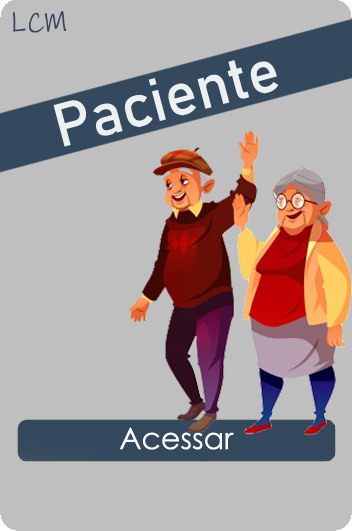
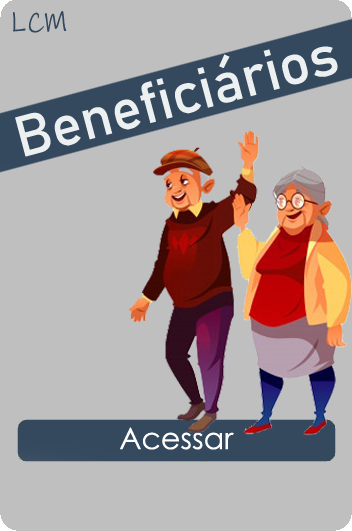
troca de imagens nos cards

Changed region(s): [[0.0312, 0.0603, 0.9688, 0.3013]]

diff --git a/tcc-web/src/app/modulos/login/cadastro/cadastro-paciente/cadastro-paciente.component.html b/tcc-web/src/app/modulos/login/cadastro/cadastro-paciente/cadastro-paciente.component.html
@@ -14,14 +14,16 @@
 <div id="main">
   <div class="inner">
     <!-- <router-outlet></router-outlet> -->
-<a href="/board">voltar</a>
+    <a href="/board">voltar</a>
+    <a style="float:right" href="/login" >Logout </a>
     <!-- listagem -->
     <div *ngIf="!this.novoPaciente" style="text-align: center">
-    <div class="columns" style="display: inline-flex">
+      <div class="columns" style="display: inline-flex">
         <!-- Column 1 (horizontal, vertical, horizontal, vertical) -->
         <div class="image fit">
           <!-- <a href="cadastro_paciente.html"><img src="images/Intern_Banner_Template_Cadastrar_Paciente.png" alt="" /></a> -->
-          <a *ngIf="this.perfilPaciente != 4" (click)="criarNovoPaciente()" class="clicavel"><img src="../../../../../assets/images/cadastro/Intern_Banner_Template_Cadastrar_Paciente.png" alt="" /></a>
+          <a *ngIf="this.perfilPaciente != 4" (click)="criarNovoPaciente()" class="clicavel"><img
+              src="../../../../../assets/images/cadastro/Intern_Banner_Template_Cadastrar_Paciente.png" alt="" /></a>
         </div>
         <!-- Column 2 (vertical, horizontal, vertical, horizontal) -->
         <!-- <div class="image fit">
@@ -29,9 +31,9 @@
           <a class="clicavel"><img src="../../../../../assets/images/cadastro/Intern_Banner_Template_Editar_Paciente.png" alt="" /></a>
         </div> -->
       </div>
-    
+
       <h2>Beneficiários ja cadastrados</h2>
-    
+
       <table>
         <tr>
           <th>Nome</th>
@@ -51,155 +53,174 @@
           <td>{{paciente.cidade}}</td>
           <!-- <td>{{paciente.condicoesClinicas}}</td> -->
           <td>{{paciente.responsavel}}</td>
-          <button class="editarPaciente" *ngIf="this.perfilPaciente != 4" (click)="editarPaciente(paciente)">Visualizar</button>
+          <button class="editarPaciente" *ngIf="this.perfilPaciente != 4"
+            (click)="editarPaciente(paciente)">Visualizar</button>
         </tr>
       </table>
     </div>
 
     <!-- novo paciente -->
-    <div *ngIf="this.novoPaciente" >
-        <div class="image fit">
-            <img src="images/banner_cadastro.jpg" alt="" />
+    <div *ngIf="this.novoPaciente">
+      <div class="image fit">
+        <img src="images/banner_cadastro.jpg" alt="" />
+      </div>
+      <div class="content">
+        <header>
+          <h2>Cadastro de Beneficiário</h2>
+        </header>
+        <div id="welcome">
+          <div class="title">
+            <span class="byline"><b>Preencha todos os campos obrigatórios.</b></span>
           </div>
-          <div class="content">
-            <header>
-              <h2>Cadastro de Beneficiário</h2>
-            </header>
-            <div id="welcome">
-              <div class="title">
-                <span class="byline"><b>Preencha todos os campos obrigatórios.</b></span>
-              </div>
-              <br>            
-              <div class="row">
-                  <div class="col-lg-12">
-                    <section class="panel">
-                    <header class="panel-heading">
-                    </header>
-                    <div class="panel-body">
-                      <div class="form">
-                        <form class="form-validate form-horizontal " id="register_form" method="get" action="">
-                          <div class="form-group ">
-                            <label for="fullname" class="control-label col-lg-2">Nome Completo<span class="required">*</span></label>
-                            <div class="col-lg-10">
-                              <input [(ngModel)]="this.paciente.nome" class=" form-control" id="fullname" name="fullname" type="text" />
-                            </div>
-                          </div>
-                        <br>
-                        <div class="form-group ">
-                            <label for="nascimento" class="control-label col-lg-2">Data de Nascimento <span class="required">*</span></label>
-                            <div class="col-lg-10">
-                              <input [(ngModel)]="this.paciente.datanascimento" class="form-control " id="nascimento" name="nascimento" type="date" />
-                            </div>
-                          </div>
-                        <br>
-                        <div class="form-group ">
-                            <label for="sexo" class="control-label col-lg-2">Sexo <span class="required">*</span></label>
-                            <select (change)="setSexo($event)" id=sexo>
-                                <!-- [(ngModel)]="prestador.sexo" -->
-                                <option [value]="3">Outro</option>
-                                <option [value]="1">Masculino</option>
-                                <option [value]="2">Feminino</option>
-                              </select>
-                          </div>
-                        <br>
-                        <!-- <div class="form-group ">
+          <br>
+          <div class="row">
+            <div class="col-lg-12">
+              <section class="panel">
+                <header class="panel-heading">
+                </header>
+                <div class="panel-body">
+                  <div class="form">
+                    <form class="form-validate form-horizontal " id="register_form" method="get" action="">
+                      <div class="form-group ">
+                        <label for="fullname" class="control-label col-lg-2">Nome Completo<span
+                            class="required">*</span></label>
+                        <div class="col-lg-10">
+                          <input [(ngModel)]="this.paciente.nome" class=" form-control" id="fullname" name="fullname"
+                            type="text" />
+                        </div>
+                      </div>
+                      <br>
+                      <div class="form-group ">
+                        <label for="nascimento" class="control-label col-lg-2">Data de Nascimento <span
+                            class="required">*</span></label>
+                        <div class="col-lg-10">
+                          <input [(ngModel)]="this.paciente.datanascimento" class="form-control " id="nascimento"
+                            name="nascimento" type="date" />
+                        </div>
+                      </div>
+                      <br>
+                      <div class="form-group ">
+                        <label for="sexo" class="control-label col-lg-2">Sexo <span class="required">*</span></label>
+                        <select (change)="setSexo($event)" id=sexo>
+                          <!-- [(ngModel)]="prestador.sexo" -->
+                          <option [value]="3">Outro</option>
+                          <option [value]="1">Masculino</option>
+                          <option [value]="2">Feminino</option>
+                        </select>
+                      </div>
+                      <br>
+                      <!-- <div class="form-group ">
                             <label for="email" class="control-label col-lg-2">email <span class="required">*</span></label>
                             <div class="col-lg-10">
                               <input [(ngModel)]="this.paciente.email" class="form-control " id="email" name="email" type="email" />
                             </div>
                           </div> -->
-                        <br>
-                        <div class="form-group ">
-                            <label for="telefone" class="control-label col-lg-2">Telefone <span class="required">*</span></label>
-                            <div class="col-lg-10">
-                              <input [(ngModel)]="this.paciente.telefone" mask="(00) 000000000" class="form-control " id="telefone" name="telefone" type="text" />
-                            </div>
-                          </div>
-                        <br>                        
-                    <div class="form-group ">
-                      <label for="UF" class="control-label col-lg-2">Estado <span class="required">*</span></label>
-                      <select (change)="setEstado($event)" >
-                        <option *ngFor="let estado of estados" [value]="estado.key">{{estado.value}}</option>
-                      </select>
-                    </div>
-                    <br>
-                    <div class="form-group ">
-                      <label for="cidade" class="control-label col-lg-2">Cidade <span class="required">*</span></label>
-                      <select (change)="setCidade($event)" >
-                        <option *ngFor="let cidade of cidades" [value]="cidade.key">{{cidade.value}}</option>
-                      </select>
-                    </div>
-                        <br>
-                        <div class="form-group ">
-                            <label for="rua" class="control-label col-lg-2">Rua <span class="required">*</span></label>
-                            <div class="col-lg-10">
-                              <input [(ngModel)]="this.paciente.rua" class="form-control " id="rua" name="rua" type="text" />
-                            </div>
-                          </div>
-                        <br>
-                        <div class="form-group ">
-                            <label for="numero" class="control-label col-lg-2">Número <span class="required">*</span></label>
-                            <div class="col-lg-10">
-                              <input [(ngModel)]="this.paciente.numero" mask="000000" class="form-control " id="numero" name="numero" type="text" />
-                            </div>
-                          </div>
-                        <br>
-                        <!-- <div class="form-group ">
+                      <br>
+                      <div class="form-group ">
+                        <label for="telefone" class="control-label col-lg-2">Telefone <span
+                            class="required">*</span></label>
+                        <div class="col-lg-10">
+                          <input [(ngModel)]="this.paciente.telefone" mask="(00) 000000000" class="form-control "
+                            id="telefone" name="telefone" type="text" />
+                        </div>
+                      </div>
+                      <br>
+                      <div class="form-group ">
+                        <label for="UF" class="control-label col-lg-2">Estado <span class="required">*</span></label>
+                        <select (change)="setEstado($event)">
+                          <option *ngFor="let estado of estados" [value]="estado.key">{{estado.value}}</option>
+                        </select>
+                      </div>
+                      <br>
+                      <div class="form-group ">
+                        <label for="cidade" class="control-label col-lg-2">Cidade <span
+                            class="required">*</span></label>
+                        <select (change)="setCidade($event)">
+                          <option *ngFor="let cidade of cidades" [value]="cidade.key">{{cidade.value}}</option>
+                        </select>
+                      </div>
+                      <br>
+                      <div class="form-group ">
+                        <label for="rua" class="control-label col-lg-2">Rua <span class="required">*</span></label>
+                        <div class="col-lg-10">
+                          <input [(ngModel)]="this.paciente.rua" class="form-control " id="rua" name="rua"
+                            type="text" />
+                        </div>
+                      </div>
+                      <br>
+                      <div class="form-group ">
+                        <label for="numero" class="control-label col-lg-2">Número <span
+                            class="required">*</span></label>
+                        <div class="col-lg-10">
+                          <input [(ngModel)]="this.paciente.numero" mask="000000" class="form-control " id="numero"
+                            name="numero" type="text" />
+                        </div>
+                      </div>
+                      <br>
+                      <!-- <div class="form-group ">
                             <label for="cpf" class="control-label col-lg-2">CPF  <span class="required">*</span></label>
                             <div class="col-lg-10">
                               <input [(ngModel)]="this.paciente.cpf" class="form-control " id="cpf" name="cpf" type="text" />
                             </div>
                           </div> -->
-                        <br>
-                        <div class="form-group ">
-                            <label for="bairro" class="control-label col-lg-2">Bairro  <span class="required">*</span></label>
-                            <div class="col-lg-10">
-                              <input [(ngModel)]="this.paciente.bairro" class="form-control " id="bairro" name="bairro" type="text" />
-                            </div>
-                          </div>
-                        <br>
-                        <div class="form-group ">
-                            <label for="cep" class="control-label col-lg-2">CEP  <span class="required">*</span></label>
-                            <div class="col-lg-10">
-                              <input [(ngModel)]="this.paciente.cep" mask="00000-000"  class="form-control " id="cep" name="cep" type="text" />
-                            </div>
-                          </div>
-                        <br>
-                        <div class="form-group ">
-                            <label for="complemento" class="control-label col-lg-2">Complemento  <span class="required">*</span></label>
-                            <div class="col-lg-10">
-                              <input [(ngModel)]="this.paciente.complemento" class="form-control " id="complemento" name="complemento" type="text" />
-                            </div>
-                          </div>
-                        <br>
-                        <div class="form-group ">
-                            <label for="comentario" class="control-label col-lg-2">Comentário</label>
-                            <div class="col-lg-10">
-                              <input [(ngModel)]="this.paciente.comentario" class="form-control " id="comentario" name="comentario" type="text" />
-                            </div>
-                          </div>
-                        <br>
-                        <div class="form-group ">
-                          <label for="condicoesclinicas" class="control-label col-lg-2">Competências <span
-                              class="required">*</span></label>
-                          <div class="col-lg-10">
-                            <ng-multiselect-dropdown [placeholder]="'custom placeholder'" [data]="condicoesClinicas"
-                            [(ngModel)]="selectedItems" [settings]="dropdownSettings" (onSelect)="setCondicoesClinicas($event)" 
-                            name="condicoesclinicas"
-                            (onSelectAll)="setTodasCondicoesClinicas($event)" (onDeSelect)="removerCondicoesClinicas($event)">
-                          </ng-multiselect-dropdown>
-                          </div>
+                      <br>
+                      <div class="form-group ">
+                        <label for="bairro" class="control-label col-lg-2">Bairro <span
+                            class="required">*</span></label>
+                        <div class="col-lg-10">
+                          <input [(ngModel)]="this.paciente.bairro" class="form-control " id="bairro" name="bairro"
+                            type="text" />
                         </div>
-                        <br>
-                        <div class="form-group ">
-                            <label for="termos" class="control-label col-lg-2">Declaro que sou responsável por esse paciente: <span class="required">*</span></label>
-                            <select (change)="setTermos($event)" id="termos">
-                                <option [value]="false">Não</option>
-                                <option [value]="true">Sim</option>
-                              </select>
-                          </div>
-                          <br>
-                       <!-- <div class="form-group ">
+                      </div>
+                      <br>
+                      <div class="form-group ">
+                        <label for="cep" class="control-label col-lg-2">CEP <span class="required">*</span></label>
+                        <div class="col-lg-10">
+                          <input [(ngModel)]="this.paciente.cep" mask="00000-000" class="form-control " id="cep"
+                            name="cep" type="text" />
+                        </div>
+                      </div>
+                      <br>
+                      <div class="form-group ">
+                        <label for="complemento" class="control-label col-lg-2">Complemento <span
+                            class="required">*</span></label>
+                        <div class="col-lg-10">
+                          <input [(ngModel)]="this.paciente.complemento" class="form-control " id="complemento"
+                            name="complemento" type="text" />
+                        </div>
+                      </div>
+                      <br>
+                      <div class="form-group ">
+                        <label for="comentario" class="control-label col-lg-2">Comentário</label>
+                        <div class="col-lg-10">
+                          <input [(ngModel)]="this.paciente.comentario" class="form-control " id="comentario"
+                            name="comentario" type="text" />
+                        </div>
+                      </div>
+                      <br>
+                      <div class="form-group ">
+                        <label for="condicoesclinicas" class="control-label col-lg-2">Competências <span
+                            class="required">*</span></label>
+                        <div class="col-lg-10">
+                          <ng-multiselect-dropdown [placeholder]="'custom placeholder'" [data]="condicoesClinicas"
+                            [(ngModel)]="selectedItems" [settings]="dropdownSettings"
+                            (onSelect)="setCondicoesClinicas($event)" name="condicoesclinicas"
+                            (onSelectAll)="setTodasCondicoesClinicas($event)"
+                            (onDeSelect)="removerCondicoesClinicas($event)">
+                          </ng-multiselect-dropdown>
+                        </div>
+                      </div>
+                      <br>
+                      <div class="form-group ">
+                        <label for="termos" class="control-label col-lg-2">Declaro que sou responsável por esse
+                          paciente: <span class="required">*</span></label>
+                        <select (change)="setTermos($event)" id="termos">
+                          <option [value]="false">Não</option>
+                          <option [value]="true">Sim</option>
+                        </select>
+                      </div>
+                      <br>
+                      <!-- <div class="form-group ">
                         <label for="agree" class="control-label col-lg-2 col-sm-3">Aceita nossa política? <span class="required">*</span></label><input type="checkbox" style="width: 20px" class="checkbox form-control" id="agree" name="agree" />
                           <form> 
                             <INPUT TYPE="RADIO" NAME="OPCAO1" VALUE="op1_epoca"> Aceito <br>
@@ -207,22 +228,22 @@
                           </form> 
                       </div> -->
                       <br>
-                        <div class="form-group">
+                      <div class="form-group">
                         <div class="col-lg-offset-2 col-lg-10">
-                          <button  (click)="salvar()" class="btn btn-primary" type="submit">Enviar</button>
+                          <button (click)="salvar()" class="btn btn-primary" type="submit">Enviar</button>
                           <button (click)="voltar()" class="btn btn-default" type="button">Voltar</button>
                         </div>
-                        </div>
-                      </form>
                       </div>
-                    </div>
-                    </section>
+                    </form>
                   </div>
                 </div>
-              </div>
+              </section>
             </div>
+          </div>
+        </div>
+      </div>
     </div>
-    
+
   </div>
 </div>
 
@@ -248,4 +269,5 @@
   </div>
 </footer>
 
-<app-modal-editar-paciente *ngIf="!this.util.nullOrUndef(this.pacienteSelecionado)" [pacienteSelecionado]="this.pacienteSelecionado"></app-modal-editar-paciente>
+<app-modal-editar-paciente *ngIf="!this.util.nullOrUndef(this.pacienteSelecionado)"
+  [pacienteSelecionado]="this.pacienteSelecionado"></app-modal-editar-paciente>

diff --git a/tcc-web/src/app/modulos/board/board.component.html b/tcc-web/src/app/modulos/board/board.component.html
@@ -47,12 +47,12 @@
 
       <!-- Column 3 (horizontal, vertical, horizontal, vertical) -->
       <div *ngIf="this.perfilSelecionado != 1" class="image fit clicavel">
-        <a href="medicamentos"><img src="../../../assets/images/board/banner03.png" alt="" /></a>
+        <a href="medicamentos"><img src="../../../assets/images/board/Intern_Banner_Template_Medicamentos.png" alt="" /></a>
       </div>
 
       <!-- Column 4 (vertical, horizontal, vertical, horizontal) -->
       <div *ngIf="this.perfilSelecionado != 4" class="image fit clicavel">
-        <a href="funcionarios"><img src="../../../assets/images/board/banner04.png" alt="" /></a>
+        <a href="funcionarios"><img src="../../../assets/images/board/Intern_Banner_Template_Prestadores.png" alt="" /></a>
       </div>
 
       <div *ngIf="this.perfilSelecionado != 4 && this.perfilSelecionado != 2" class="image fit clicavel">

diff --git a/tcc-web/src/app/modulos/login/cadastro/cadastro-paciente/cadastro-paciente.component.ts b/tcc-web/src/app/modulos/login/cadastro/cadastro-paciente/cadastro-paciente.component.ts
@@ -245,4 +245,5 @@ export class CadastroPacienteComponent implements OnInit {
         console.log(err);
       });
   }
+
 }
